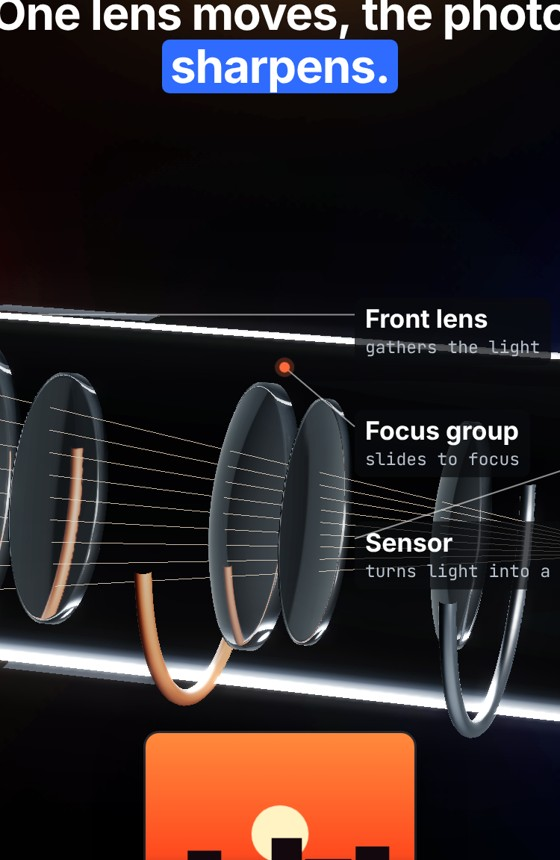
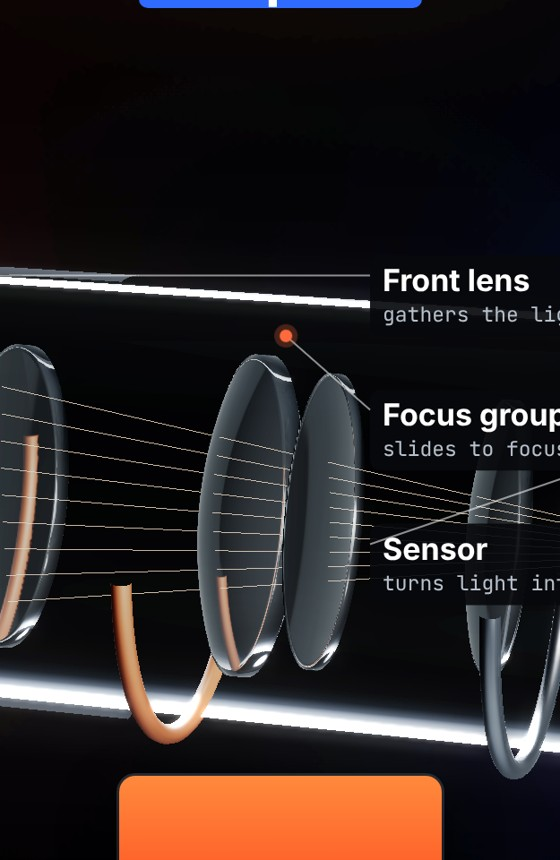
motion3d2: director fixes, post.json; extra slot today 20:00 (Jan)
Claude-Session: https://claude.ai/code/session_011mgQaNYem7nUNEEz5pFuwc

diff --git a/hf/videos/motion3d2/scenes.js b/hf/videos/motion3d2/scenes.js
@@ -133,12 +133,13 @@ function bgGrad(sc,c1,c2){ const t=canvasTex(512,1024,(g,w,h)=>{ const gr=g.crea
     for(let i=0;i<NA;i++){ const s=((i*0.6180339)%1); const u=((lt-1.7)*0.9+s)%1; const a=(i*2.399)%6.283; const r=0.28*Math.sqrt(((i*0.381966)%1));
       ap[i*3]=0.95+Math.cos(a)*r*(1-u)+(((i*0.7548)%1)-0.5)*0.75*u; ap[i*3+1]=0.08+Math.sin(a)*0.03+u*0.25*((i*0.31)%1); ap[i*3+2]=-0.45-u*1.3; }
     ag.attributes.position.needsUpdate=true;
-    lap.rotation.y=-0.36+0.22*cl(lt/3.2); lap.scale.setScalar(0.52); lap.position.x=0.18;
+    lap.rotation.y=-0.36+0.22*cl(lt/3.2); lap.scale.setScalar(0.47); lap.position.x=0.05;
     const cv=easeIO(cl((lt-0.7)/1.0));
     cam.position.set(0.0,1.0+2.7*cv,6.6-2.9*cv); cam.lookAt(0.1,0.45-0.55*cv,-0.25*cv);
     if(P.bk) P.bk.uniforms['focus'].value=cam.position.distanceTo(new THREE.Vector3(0,0.3,0));
     P.c.render();
-    layoutLabels([['l1_0',chip],['l1_1',pipeA],['l1_3',fins],['l1_2',fanG]].map(([id,o],i)=>[document.getElementById(id),o,cl((lt-1.55-i*0.14)/0.2)]),cam,70,140);
+    layoutLabels([['l1_0',chip],['l1_1',pipeA]].map(([id,o],i)=>[document.getElementById(id),o,cl((lt-1.55-i*0.14)/0.2)]),cam,70,150);
+    layoutLabels([['l1_3',fins],['l1_2',fanG]].map(([id,o],i)=>[document.getElementById(id),o,cl((lt-1.83-i*0.14)/0.2)]),cam,770,150);
     caption(1,lt); };
 })();
 // ---------- hero-3d: a landing page builds itself, glass 3D shape in the hero

diff --git a/hf/videos/motion3d2/build.py b/hf/videos/motion3d2/build.py
@@ -55,7 +55,7 @@ for k, (cmd, prompt, title, cap, hi, desc) in enumerate(DEMOS):
             F.sfx.append((p0 + (p1 - p0) * i / len(prompt), "tick"))
 F.sfx.append((END, "whoosh")); F.sfx.append((END + 0.25, "pop"))
 
-HERO = ('<div id="bw2"><div id="hb2"><i></i><i></i><i></i><span>nova.ai</span></div><div id="hpage2">'
+HERO = ('<div id="bw2"><div id="hb2"><i></i><i></i><i></i><span>localhost:3000</span></div><div id="hpage2">'
         '<div id="hn2"><b>✦ nova</b><span>Product</span><span>Pricing</span><span>Docs</span><em>Sign in</em></div>'
         '<canvas id="hc2" width="900" height="760"></canvas>'
         '<div id="hh2"></div><div id="hs2">Your AI teammate for research, writing and code.</div><div id="hcta2">Start free →</div>'
@@ -164,6 +164,8 @@ html,body,#root{background:#121212!important}
 .th img{width:100%;height:100%;object-fit:cover}
 """
 CSS += r'''
+.lb{background:rgba(8,9,12,.92)!important}
+
 #pic0{position:absolute;left:360px;top:1250px;width:360px;height:270px;border-radius:18px;box-shadow:0 30px 60px rgba(0,0,0,.7),0 0 0 3px #2a2d35}
 
 #bw2{position:absolute;left:70px;top:390px;width:940px;height:1120px;border-radius:30px;overflow:hidden;background:#0a0b10;box-shadow:0 60px 120px rgba(0,0,0,.7),0 0 0 2px #23252c}
